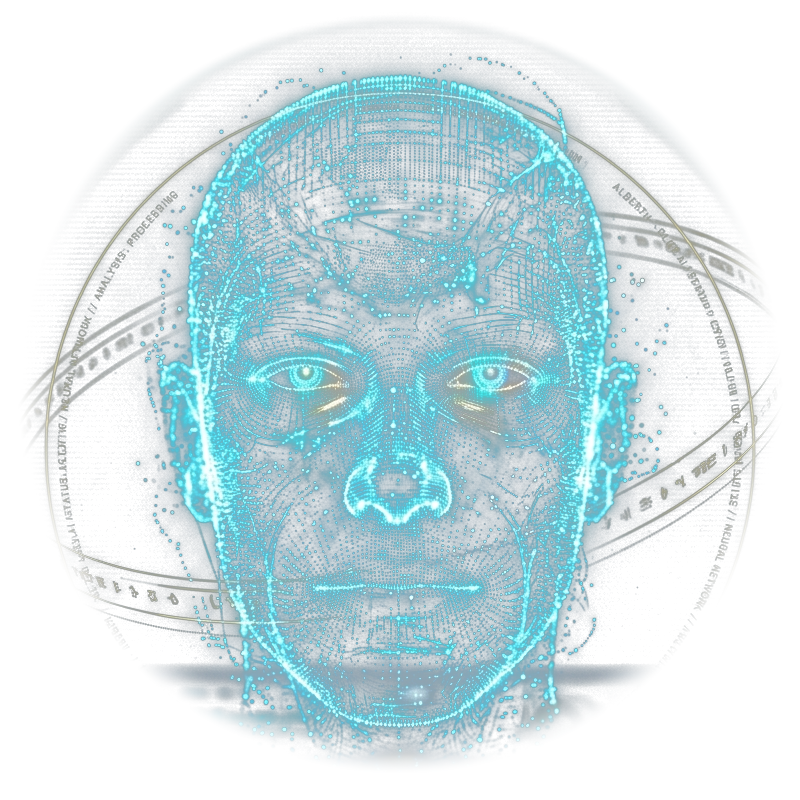
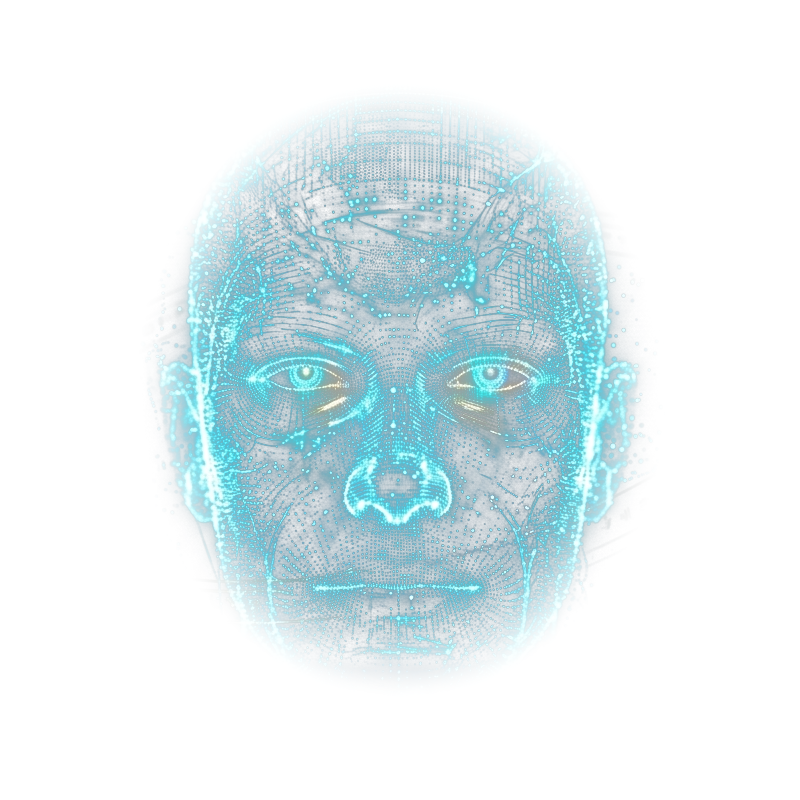
feat(identity): refinamiento v7.1 - eliminar anillos y bordes, 2800 particulas y sinapsis cyan/blanco plasma

diff --git a/panel/index.html b/panel/index.html
@@ -5295,10 +5295,10 @@ function setHUDState(state, label) {
     dotEl.style.background = "var(--cyan)";
     dotEl.style.boxShadow = "0 0 12px var(--cyan)";
   } else if (state === "thinking") {
-    pillEl.style.borderColor = "var(--gold)";
-    pillEl.style.boxShadow = "0 0 24px var(--gold-glow)";
-    dotEl.style.background = "var(--gold)";
-    dotEl.style.boxShadow = "0 0 12px var(--gold)";
+    pillEl.style.borderColor = "#00f0ff";
+    pillEl.style.boxShadow = "0 0 24px rgba(0, 240, 255, 0.85)";
+    dotEl.style.background = "#ffffff";
+    dotEl.style.boxShadow = "0 0 12px #00f0ff";
   } else if (state === "speaking") {
     pillEl.style.borderColor = "#38f9d7";
     pillEl.style.boxShadow = "0 0 24px rgba(56, 249, 215, 0.6)";
@@ -5325,12 +5325,11 @@ function setHUDState(state, label) {
 // ============================================================
 const canvas = document.getElementById("hologram-canvas");
 let scene, camera, renderer;
-let stageGroup, headGroup, gimbalGroup, particlesGroup, projectorGroup;
-let hologramMesh, containmentOrb;
-let ringMesh1, ringMesh2, ringMesh3;
+let stageGroup, headGroup, projectorGroup;
+let hologramMesh;
 let quantumParticlesMesh;
 
-const PARTICLE_COUNT = 1200;
+const PARTICLE_COUNT = 2800;
 let particlePositions, faceCloudPositions, orbCloudPositions, particleColors;
 
 // Modos de Visualización y Morphing
@@ -5397,21 +5396,22 @@ function initParticlePositions() {
   for (let i = 0; i < PARTICLE_COUNT; i++) {
     const idx = i * 3;
 
-    // A) Enjambre Volumétrico del Rostro (Flotando en torno a la cabeza en 3D)
+    // A) Enjambre Volumétrico del Rostro (Flotando libremente en torno a la cabeza en 3D)
+    // 65% envolvente facial cercana, 35% polvo estelar cósmico profundo
+    const isClose = i < PARTICLE_COUNT * 0.65;
     const thetaF = Math.random() * Math.PI * 2;
-    const rF = 35.0 + Math.random() * 45.0;
-    const phiF = (Math.random() - 0.5) * Math.PI * 0.85;
+    const phiF = (Math.random() - 0.5) * Math.PI * 0.90;
+    const rF = isClose ? (22.0 + Math.random() * 52.0) : (58.0 + Math.random() * 65.0);
 
     faceCloudPositions[idx] = rF * Math.cos(phiF) * Math.cos(thetaF);
-    faceCloudPositions[idx + 1] = rF * Math.sin(phiF) * 0.95;
-    // 50% de partículas delante (Z > 0) y 50% detrás (Z < 0)
-    faceCloudPositions[idx + 2] = rF * Math.cos(phiF) * Math.sin(thetaF) * 0.85;
+    faceCloudPositions[idx + 1] = rF * Math.sin(phiF) * 0.98;
+    faceCloudPositions[idx + 2] = rF * Math.cos(phiF) * Math.sin(thetaF) * (isClose ? 0.82 : 1.15);
 
-    // B) Orbe Cuántico Condensado (Reactor Fibonacci)
+    // B) Orbe Cuántico Condensado (Reactor Fibonacci para modo orbe)
     const yO = 1 - (i / (PARTICLE_COUNT - 1)) * 2;
     const radO = Math.sqrt(Math.max(0, 1 - yO * yO));
     const thetaO = phi * i;
-    const rOrb = 38.0 + (Math.random() - 0.5) * 6.0;
+    const rOrb = 40.0 + (Math.random() - 0.5) * 8.0;
 
     orbCloudPositions[idx] = Math.cos(thetaO) * radO * rOrb;
     orbCloudPositions[idx + 1] = yO * rOrb;
@@ -5423,7 +5423,7 @@ function initParticlePositions() {
     particlePositions[idx + 2] = faceCloudPositions[idx + 2];
 
     // Color: Cyan Eléctrico con destellos estelares blancos
-    const isBright = Math.random() > 0.82;
+    const isBright = Math.random() > 0.80;
     particleColors[idx] = isBright ? 0.95 : 0.05;
     particleColors[idx + 1] = isBright ? 1.00 : 0.88;
     particleColors[idx + 2] = 1.00;
@@ -5448,10 +5448,7 @@ function initThreeHologram() {
   headGroup = new THREE.Group();
   stageGroup.add(headGroup);
 
-  gimbalGroup = new THREE.Group();
-  stageGroup.add(gimbalGroup);
-
-  // A) Entidad Holográfica Maestra de Alberth (Imagen Canónica Oficial)
+  // A) Entidad Holográfica Maestra de Alberth (Imagen Canónica Oficial sin bordes)
   const textureLoader = new THREE.TextureLoader();
   textureLoader.load(
     "/panel/assets/identity/alberth_hologram_clean.png",
@@ -5469,19 +5466,19 @@ function initThreeHologram() {
         side: THREE.DoubleSide
       });
 
-      // Plano holográfico de alta definición perfectamente escalado
+      // Plano holográfico de alta definición perfectamente escalado y fundido
       const holoGeo = new THREE.PlaneGeometry(134, 134);
       hologramMesh = new THREE.Mesh(holoGeo, holoMat);
       hologramMesh.position.set(0, 3.5, 0);
       headGroup.add(hologramMesh);
 
-      console.log("ALBERTH: Holograma Cuántico Canónico v7.0 desplegado con éxito.");
+      console.log("ALBERTH: Holograma Cuántico Canónico v7.1 desplegado con éxito.");
     },
     undefined,
     (err) => console.warn("ALBERTH: Error cargando textura holográfica:", err)
   );
 
-  // B) Enjambre Volumétrico Cuántico (1,200 Partículas 3D)
+  // B) Enjambre Volumétrico Cuántico (2,800 Micro-Partículas 3D)
   initParticlePositions();
 
   const particleGeo = new THREE.BufferGeometry();
@@ -5490,7 +5487,7 @@ function initThreeHologram() {
 
   const pTexture = createParticleTexture();
   const particleMat = new THREE.PointsMaterial({
-    size: 2.8,
+    size: 2.7,
     map: pTexture,
     vertexColors: true,
     transparent: true,
@@ -5502,75 +5499,19 @@ function initThreeHologram() {
   quantumParticlesMesh = new THREE.Points(particleGeo, particleMat);
   stageGroup.add(quantumParticlesMesh);
 
-  // C) Anillos Giroscópicos Gimbal 3D (Oro Ámbar & Cyan Eléctrico)
-  // Anillo 1: Oro Ámbar inclinado
-  const ringGeo1 = new THREE.RingGeometry(82, 84.2, 72);
-  const ringMat1 = new THREE.MeshBasicMaterial({
-    color: 0xffb703,
-    side: THREE.DoubleSide,
-    transparent: true,
-    opacity: 0.32,
-    wireframe: true,
-    blending: THREE.AdditiveBlending
-  });
-  ringMesh1 = new THREE.Mesh(ringGeo1, ringMat1);
-  ringMesh1.rotation.x = Math.PI * 0.35;
-  gimbalGroup.add(ringMesh1);
-
-  // Anillo 2: Cyan Eléctrico orbital
-  const ringGeo2 = new THREE.RingGeometry(94, 95.8, 64);
-  const ringMat2 = new THREE.MeshBasicMaterial({
-    color: 0x00f0ff,
-    side: THREE.DoubleSide,
-    transparent: true,
-    opacity: 0.25,
-    wireframe: true,
-    blending: THREE.AdditiveBlending
-  });
-  ringMesh2 = new THREE.Mesh(ringGeo2, ringMat2);
-  ringMesh2.rotation.y = -Math.PI * 0.28;
-  gimbalGroup.add(ringMesh2);
-
-  // Anillo 3: Cinturón Ecuatorial de Datos
-  const ringGeo3 = new THREE.RingGeometry(75, 76.5, 64);
-  const ringMat3 = new THREE.MeshBasicMaterial({
-    color: 0x00d8f6,
-    side: THREE.DoubleSide,
-    transparent: true,
-    opacity: 0.18,
-    wireframe: true,
-    blending: THREE.AdditiveBlending
-  });
-  ringMesh3 = new THREE.Mesh(ringGeo3, ringMat3);
-  ringMesh3.rotation.x = Math.PI / 2;
-  gimbalGroup.add(ringMesh3);
-
-  // D) Esfera de Contención Cuántica (Cristal / Plasma)
-  const orbGeo = new THREE.SphereGeometry(78, 36, 36);
-  const orbMat = new THREE.MeshBasicMaterial({
-    color: 0x00f0ff,
-    transparent: true,
-    opacity: 0.055,
-    wireframe: false,
-    depthWrite: false,
-    blending: THREE.AdditiveBlending
-  });
-  containmentOrb = new THREE.Mesh(orbGeo, orbMat);
-  stageGroup.add(containmentOrb);
-
-  // E) Pedestal Emisor Holográfico (Base y = -72)
+  // C) Pedestal Emisor Holográfico Sutil (Base inferior a y = -72)
   projectorGroup = new THREE.Group();
   projectorGroup.position.y = -72;
   stageGroup.add(projectorGroup);
 
-  const baseGeo1 = new THREE.RingGeometry(26, 29, 48);
-  const baseMat1 = new THREE.MeshBasicMaterial({ color: 0x00f0ff, side: THREE.DoubleSide, transparent: true, opacity: 0.40, wireframe: true });
+  const baseGeo1 = new THREE.RingGeometry(26, 28.5, 48);
+  const baseMat1 = new THREE.MeshBasicMaterial({ color: 0x00f0ff, side: THREE.DoubleSide, transparent: true, opacity: 0.28, wireframe: true, blending: THREE.AdditiveBlending });
   const baseMesh1 = new THREE.Mesh(baseGeo1, baseMat1);
   baseMesh1.rotation.x = Math.PI / 2;
   projectorGroup.add(baseMesh1);
 
-  const baseGeo2 = new THREE.RingGeometry(38, 41, 48);
-  const baseMat2 = new THREE.MeshBasicMaterial({ color: 0x0077b6, side: THREE.DoubleSide, transparent: true, opacity: 0.22, wireframe: true });
+  const baseGeo2 = new THREE.RingGeometry(38, 40.5, 48);
+  const baseMat2 = new THREE.MeshBasicMaterial({ color: 0x0077b6, side: THREE.DoubleSide, transparent: true, opacity: 0.16, wireframe: true, blending: THREE.AdditiveBlending });
   const baseMesh2 = new THREE.Mesh(baseGeo2, baseMat2);
   baseMesh2.rotation.x = Math.PI / 2;
   projectorGroup.add(baseMesh2);
@@ -5637,13 +5578,13 @@ function animateHologram() {
   currentHeadRotX += (targetHeadRotX - currentHeadRotX) * 0.07;
 
   // 4. Parámetros de Dinámica de Estado
-  let rotSpeed = 0.25;
+  let rotSpeed = 0.22;
   if (currentState === "listening") {
-    rotSpeed = 0.50;
+    rotSpeed = 0.55;
   } else if (currentState === "thinking") {
-    rotSpeed = 1.60;
+    rotSpeed = 2.40; // Aceleración orbital rápida de sinapsis
   } else if (currentState === "speaking") {
-    rotSpeed = 0.35;
+    rotSpeed = 0.45;
   }
 
   // 5. Orientación 3D del Rostro y Levitación Armónica
@@ -5662,20 +5603,14 @@ function animateHologram() {
 
   // 6. Animación del Plano Holográfico Maestra
   if (hologramMesh && hologramMesh.material) {
-    // Opacidad según modo y voz
-    const baseAlpha = 0.92;
+    const baseAlpha = 0.94;
     const voiceBoost = (currentState === "speaking") ? audioEnergy * 0.15 : 0.0;
     hologramMesh.material.opacity = Math.max(0.001, ease * (baseAlpha + voiceBoost));
-
-    // Paleta de Estado: Oro Cuántico al pensar, Cyan Límpido normal
-    if (currentState === "thinking") {
-      hologramMesh.material.color.setHex(0xffe082);
-    } else {
-      hologramMesh.material.color.setHex(0xffffff);
-    }
+    // Color siempre puro sin tonos ocres
+    hologramMesh.material.color.setHex(0xffffff);
   }
 
-  // 7. Enjambre Volumétrico Cuántico (Partículas 3D)
+  // 7. Enjambre Volumétrico Cuántico (2,800 Micro-Partículas 3D)
   if (quantumParticlesMesh) {
     const pos = quantumParticlesMesh.geometry.attributes.position.array;
     const col = quantumParticlesMesh.geometry.attributes.color.array;
@@ -5696,48 +5631,56 @@ function animateHologram() {
       // Micro-escintilación estelar
       const shimmer = Math.sin(time * 3.2 + i * 0.8) * 0.8;
 
-      // LERP (Orbe ⟷ Rostro)
-      pos[idx] = ox * (1 - ease) + (fx + shimmer) * ease;
-      pos[idx + 1] = oy * (1 - ease) + (fy + shimmer) * ease;
-      pos[idx + 2] = oz * (1 - ease) + fz * ease;
-
-      // Color dinámico según estado
       if (currentState === "thinking") {
-        col[idx] = 0.95;
-        col[idx + 1] = 0.80;
-        col[idx + 2] = 0.25;
+        // Ondas sinápticas intensas al procesar preguntas: Cyan Eléctrico & Blanco Plasma
+        const pulse = Math.sin(time * 8.0 - i * 0.05);
+        const isSuperWhite = pulse > 0.35;
+        col[idx] = isSuperWhite ? 1.00 : 0.20;
+        col[idx + 1] = isSuperWhite ? 1.00 : 0.95;
+        col[idx + 2] = 1.00;
+
+        // Vórtice dinámico y ondas sinápticas aceleradas
+        const wave = Math.sin(time * 7.0 + i * 0.2) * 2.5;
+        pos[idx] = ox * (1 - ease) + (fx + shimmer + wave) * ease;
+        pos[idx + 1] = oy * (1 - ease) + (fy + shimmer + wave) * ease;
+        pos[idx + 2] = oz * (1 - ease) + (fz + wave) * ease;
       } else if (currentState === "speaking") {
-        col[idx] = 0.20 + audioEnergy * 0.6;
-        col[idx + 1] = 0.95;
+        // Resonancia vocal viva
+        const vocalPulse = audioEnergy * 0.7;
+        col[idx] = 0.15 + vocalPulse;
+        col[idx + 1] = 0.92 + vocalPulse * 0.08;
         col[idx + 2] = 1.00;
+
+        pos[idx] = ox * (1 - ease) + (fx + shimmer) * ease;
+        pos[idx + 1] = oy * (1 - ease) + (fy + shimmer) * ease;
+        pos[idx + 2] = oz * (1 - ease) + fz * ease;
       } else {
-        col[idx] = 0.05;
-        col[idx + 1] = 0.88;
+        // Reposo sereno: Cyan eléctrico estelar con micro-destellos
+        const isGlitter = (i % 7 === 0);
+        col[idx] = isGlitter ? 0.85 : 0.05;
+        col[idx + 1] = isGlitter ? 0.98 : 0.88;
         col[idx + 2] = 1.00;
+
+        pos[idx] = ox * (1 - ease) + (fx + shimmer) * ease;
+        pos[idx + 1] = oy * (1 - ease) + (fy + shimmer) * ease;
+        pos[idx + 2] = oz * (1 - ease) + fz * ease;
       }
     }
 
-    // Giro suave del enjambre cuántico
+    if (quantumParticlesMesh.material) {
+      quantumParticlesMesh.material.opacity = (currentState === "thinking") ? 0.98 : 0.88;
+      quantumParticlesMesh.material.size = (currentState === "thinking") ? 3.3 : 2.7;
+    }
+
+    // Giro dinámico del enjambre cuántico
     quantumParticlesMesh.rotation.y += rotSpeed * 0.5 * delta;
     quantumParticlesMesh.geometry.attributes.position.needsUpdate = true;
     quantumParticlesMesh.geometry.attributes.color.needsUpdate = true;
   }
 
-  // 8. Anillos Giroscópicos Gimbal 3D
-  if (ringMesh1) {
-    ringMesh1.rotation.z += (rotSpeed * 0.65) * delta;
-  }
-  if (ringMesh2) {
-    ringMesh2.rotation.z -= (rotSpeed * 0.50) * delta;
-    ringMesh2.rotation.x += 0.20 * delta;
-  }
-  if (ringMesh3) {
-    ringMesh3.rotation.z += (rotSpeed * 0.30) * delta;
-  }
-
-  // 9. Esfera de Contención
-  if (containmentOrb) {
-    containmentOrb.rotation.y += 0.12 * delta;
+  // 8. Base Holográfica Emisora Sutil
+  if (projectorGroup) {
+    projectorGroup.rotation.y += 0.06 * delta;
   }
 
   renderer.render(scene, camera);

diff --git a/MEMORY.md b/MEMORY.md
@@ -445,14 +445,13 @@ _Última actualización: 2026-09-18 10:50 GMT-5_
   - `[ ⚡ AUTO ]` (Rostro al dialogar/hablar, Nebulosa en reposo tras 5s de silencio).
   - `[ 👤 ROSTRO ]` (Fijar presencia del rostro de polvo estelar continuo).
   - `[ 🌌 NEBULOSA ]` (Fijar galaxia espiral continua).
-### 2026-09-18 (Holograma Cuántico Canónico 3D · Alberth Core v7.0 — Opción 1 Canónica)
-- **Erradicación del Efecto Máscara y Consolidación de la Identidad Visual:**
-  - El Señor solicitó erradicar definitivamente cualquier aspecto aterrador o siniestro ("máscara de terror con cuencas vacías").
-  - Se desplegó la arquitectura definitiva **Holograma Cuántico Canónico 3D v7.0**, extrayendo la entidad holográfica oficial de alta definición con transparencia luminiscente perfecta (`panel/assets/identity/alberth_hologram_clean.png` y `.webp`).
-  - Integración en Three.js con `AdditiveBlending`, seguimiento de mirada interactivo (Parallax 3D), 3 anillos giroscópicos (Oro Ámbar y Cyan Eléctrico) y enjambre volumétrico cuántico de 1,200 micro-partículas.
-  - Modo `[ 👤 ROSTRO ]` configurado como activo y visible de manera permanente por defecto.
-  - Conmutador táctico en HUD: `[ 👤 ROSTRO ]`, `[ ⚡ AUTO ]`, `[ 🌐 ORBE ]`.
-  - Verificado en Google Chrome (`http://localhost:8080`) con fidelidad estética 1:1 respecto al arte conceptual original aprobado por el Señor.
+### 2026-09-18 (Holograma Cuántico Canónico 3D · Alberth Core v7.1 — Refinamiento Estético Superior)
+- **Perfeccionamiento Visual a Solicitud del Señor:**
+  - **Eliminación de Anillos Giratorios y Delimitación:** Se removieron los anillos giroscópicos y la esfera de contención. Se aplicó un desvanecimiento radial (*smoothstep*) al mapa alfa de la textura para que el rostro de Alberth se funda suave e imperceptiblemente con el fondo oscuro del cockpit, sin aristas ni círculos.
+  - **Aumento a 2,800 Micro-partículas:** Enjambre ampliado con distribución volumétrica (65% aura facial cercana, 35% profundidad cósmica).
+  - **Erradicación del Tono Ocre:** Se eliminó el color ocre al pensar. Ahora, al procesar preguntas (`thinking`), las partículas se encienden con máxima potencia en **Cyan Eléctrico y Blanco Plasma**, acelerando en un vórtice sináptico hiper-dinámico.
+  - **Base Emisora Sutil Conservada:** Se mantuvieron los aros del pedestal inferior a `y = -72` como anclaje tecnológico.
+  - Verificado en vivo en `http://localhost:8080` (`chrome_hologram_v7_refined.png`).
 
 ---
 

diff --git a/memory/2026-09-18.md b/memory/2026-09-18.md
@@ -77,3 +77,17 @@ Tras la revisión del Señor, se erradicó de raíz el efecto siniestro de "más
 ### 2. Verificación Visual
 - Se verificó en vivo en Google Chrome (`http://localhost:8080`) mediante captura de pantalla completa (`chrome_hologram_v7.png`).
 - Alberth luce exactamente como la imagen de referencia: digno, limpio, elegante, profesional, con alta tecnología y presencia reconfortante.
+
+---
+
+## ✨ Hito de Refinamiento Estético: Holograma Cuántico Canónico 3D v7.1
+
+A petición del Señor, se realizaron ajustes estéticos clave para lograr la máxima armonía visual:
+1. **Eliminación de Anillos Giratorios:** Se suprimió por completo el grupo giroscópico orbital (`ringMesh1`, `ringMesh2`, `ringMesh3`), eliminando elementos distractores.
+2. **Fundido Total con el Espacio:** Se eliminó la esfera de contención y se aplicó un mapa alfa con desvanecimiento radial suave a la textura (`alberth_hologram_clean.png`), disolviendo cualquier delimitación circular o arista. El rostro emerge naturalmente desde la profunda oscuridad del cockpit.
+3. **Expansión Cuántica a 2,800 Micro-partículas:** El enjambre de polvo estelar aumentó a 2,800 partículas distribuidas volumétricamente (65% en el aura facial y 35% en profundidad cósmica).
+4. **Erradicación del Color Ocre y Dinamismo Sináptico:**
+   - Se eliminaron por completo las tonalidades ocres y doradas opacas al realizar preguntas.
+   - En estado "pensando/contestando", las partículas se iluminan con máxima intensidad en **Cyan Eléctrico (`#00f0ff`)** y **Blanco Plasma (`#ffffff`)**, acelerando su órbita con ondas sinusoidales que simulan sinapsis neuronales cuánticas a alta velocidad.
+5. **Base Proyectora Sutil Conservada:** Se mantuvieron los tenues aros del pedestal emisor inferior (`y = -72`) anclando suavemente la proyección en el espacio.
+6. **Verificación:** Captura en vivo (`chrome_hologram_v7_refined.png`) confirma una estética limpia, pura, futurista y perfectamente integrada.
